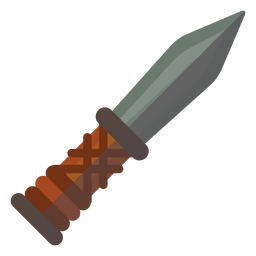
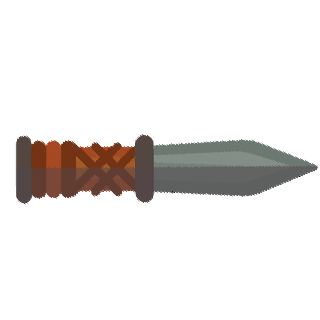
Added Zombie Enemy
Zombie moves faster than obstacles toward player. Can be killed by
ranged and melee attack, and damages player on contact if player is not
using melee attack. Fixed rotation of knife png file.

diff --git a/app/src/main/java/com/elevationstudios/gladerunner/GameScreen.java b/app/src/main/java/com/elevationstudios/gladerunner/GameScreen.java
@@ -59,6 +59,7 @@ public class GameScreen extends Screen {
     private float ninjaScale = 0.3f;
 
     private Obstacle[] obstacle;
+    private Enemy[] zombies;
     private float timer;
     private Random r;
 
@@ -94,6 +95,7 @@ public class GameScreen extends Screen {
         returnButtonYPos = playButtonYPos + 10 + playButton.getHeight();
 
         obstacle = new Obstacle[5];
+        zombies = new Enemy[5];
         r = new Random();
 
         hpPickup = new HealthPickup[5];
@@ -166,7 +168,7 @@ public class GameScreen extends Screen {
                 if(knife == null) {
                     Log.d("Knife", "Spawned knife");
                     knife = new Knife(this);
-                    knife.yLocation = ninjaYPos;
+                    knife.yLocation = ninjaYPos - game.getGraphics().getHeight() / 20;
                     if (ninja.getState() == Ninja.State.Jump) {
                         knife.isUp = true;
                     } else{
@@ -208,7 +210,7 @@ public class GameScreen extends Screen {
 
         //g.drawText("TestString", g.getWidth()/2-10, g.getHeight()/2, 20.0f);
         for (int i = 0; i < obstacle.length; i++)
-            CheckCollision();
+            CheckCollision(deltaTime);
 
         for (int i = 0; i < hpPickup.length; i++)
             CheckHealthCol();
@@ -287,6 +289,7 @@ public class GameScreen extends Screen {
 
     public void DrawEntities(Graphics g) {
         DrawNinja(g);
+        DrawZombies(g);
         DrawObstacles(g);
         DrawKnife(g);
         DrawHealthPickup(g);
@@ -319,7 +322,24 @@ public class GameScreen extends Screen {
                 ninjaYPos - (int) (ninja.getCurrentSprite().getHeight() * ninjaScale / 2),
                 ninjaScale);
         if (!isPaused)
+        {
             ninja.addFrame();
+        }
+
+    }
+    public void DrawZombies(Graphics g) {
+        for (int i = 0; i < zombies.length; i++)
+        {
+            if (zombies[i] != null)
+            {
+                g.drawPixmapScaled(zombies[i].getCurrentSprite(),
+                        zombies[i].xLocation - (int) (zombies[i].getCurrentSprite().getWidth() * ninjaScale / 2),
+                        zombies[i].yLocation - (int) (zombies[i].getCurrentSprite().getHeight() * ninjaScale / 2),
+                        ninjaScale);
+                if (!isPaused)
+                    zombies[i].addFrame();
+            }
+        }
     }
 
     public void DrawObstacles(Graphics g) {
@@ -372,17 +392,34 @@ public class GameScreen extends Screen {
             if (obstacle[i] != null)
                 obstacle[i].xLocation -= g.getWidth() * 2 / 3 * deltaTime;
         }
+        for (int i = 0; i < zombies.length; i++) {
+            if (zombies[i] != null)
+                zombies[i].xLocation -= g.getWidth() * 5 / 6 * deltaTime;
+        }
 
         if (timer >= 1 ) {
             timer = 0;
             points += 1;
-            for (int i = 0; i < obstacle.length; i++) {
-                if (obstacle[i] == null) {
-                    obstacle[i] = new Obstacle(g, r.nextBoolean());
-                    break;
+            if (r.nextFloat() > 0.5)
+            {
+                for (int i = 0; i < obstacle.length; i++) {
+                    if (obstacle[i] == null) {
+                        obstacle[i] = new Obstacle(g, r.nextBoolean());
+                        Log.d("GameScreen", "Spawned new obstacle");
+                        break;
+                    }
                 }
             }
-            Log.d("GameScreen", "Spawned new box");
+            else
+            {
+                for (int i = 0; i < zombies.length; i++) {
+                    if (zombies[i] == null) {
+                        zombies[i] = new Enemy(g);
+                        Log.d("GameScreen", "Spawned new zombie");
+                        break;
+                    }
+                }
+            }
         }
     }
 
@@ -410,8 +447,9 @@ public class GameScreen extends Screen {
 
     }
 
-    public void CheckCollision() {
-        for (int i = 0; i < obstacle.length; i++) {
+    public void CheckCollision(float deltaTime) {
+        for (int i = 0; i < obstacle.length; i++)
+        {
             //Check if obstacle exists
             if (obstacle[i] != null) {
                 //Check if off screen
@@ -433,21 +471,68 @@ public class GameScreen extends Screen {
                     }
                     break;
                 }
-                if(knife!=null) {
-                    if ((obstacle[i].xLocation < (knife.xLocation + knife.objectPix.getWidth() * 0.25f)) &&
-                            (obstacle[i].xLocation > (knife.xLocation)) &&
-                            (knife.isUp == obstacle[i].isUp)) {
+
+            }
+
+            //Against else
+        }
+        for (int i = 0; i < zombies.length; i++)
+        {
+            if (zombies[i] != null)
+            {
+                if (ninja != null)
+                {
+                    if (zombies[i].xLocation <= ninjaXPos + ninja.getCurrentSprite().getWidth() * ninjaScale + game.getGraphics().getWidth() * 5 * deltaTime &&
+                            zombies[i].getAction() == Enemy.Action.Idle)
+                    {
+                        zombies[i].setAction(Enemy.Action.Attack);
+                    }
+                    if (zombies[i].xLocation <= (ninjaXPos + ninja.getCurrentSprite().getWidth() * ninjaScale / 4) &&
+                            zombies[i].getAction() == Enemy.Action.Attack)
+                    {
+                        if (ninja.ninjaAction == Ninja.Action.MeleeAttack)
+                        {
+                            zombies[i].takeDamage(50);
+                            moneyEarned += 100;
+                            zombies[i].setAction(Enemy.Action.Dead);
+                            break;
+                        }
+                        else
+                        {
+                            ninja.takeDamage(40);
+                            zombies[i] = null;
+                            break;
+                        }
+                    }
+                }
+
+                if (knife != null) {
+                    if ((zombies[i].xLocation < knife.xLocation + knife.objectPix.getWidth() * 0.25f) &&
+                            (zombies[i].xLocation > (knife.xLocation)) &&
+                            knife.yLocation >= (zombies[i].yLocation - zombies[i].getCurrentSprite().getHeight() * ninjaScale / 2))
+                    {
                         Log.d("GameScreen.java", "Knife hit");
-                        obstacle[i] = null;
+                        zombies[i].takeDamage(50);
+                        if (zombies[i].isAlive() == false)
+                        {
+                            zombies[i].setAction(Enemy.Action.Dead);
+                        }
                         knife = null;
-                        moneyEarned += 100;
                         Log.d("GameScreen.java", "Knife deleted");
                         break;
                     }
                 }
+                if (zombies[i].getAction() == Enemy.Action.Dead)
+                {
+                    if (zombies[i].frame > 11)
+                    {
+                        zombies[i] = null;
+                        moneyEarned += 100;
+                    }
+                }
             }
 
-            //Against else
+
         }
     }
 
@@ -472,8 +557,6 @@ public class GameScreen extends Screen {
                     }
                 }
             }
-
-            //Against else
         }
     }
 }

diff --git a/app/src/main/java/com/elevationstudios/gladerunner/LoadingScreen.java b/app/src/main/java/com/elevationstudios/gladerunner/LoadingScreen.java
@@ -22,6 +22,8 @@ public class LoadingScreen extends Screen {
         //Assets.ninja = g.newPixmap("ninja1.png", PixmapFormat.ARGB4444);
         LoadNinjaAssets(g, Assets.ninjaSprite);
 
+        LoadZombieAssets(g, Assets.zombieSprite);
+
 
         Settings.load(game.getFileIO());
         game.setScreen(new MainMenuScreen(game));
@@ -72,7 +74,6 @@ public class LoadingScreen extends Screen {
         sprite[2][7] = g.newPixmap("NinjaAnim/jump_7.png", Graphics.PixmapFormat.RGB565);
         sprite[2][8] = g.newPixmap("NinjaAnim/jump_8.png", Graphics.PixmapFormat.RGB565);
         sprite[2][9] = g.newPixmap("NinjaAnim/jump_9.png", Graphics.PixmapFormat.RGB565);
-        sprite[2][0] = g.newPixmap("NinjaAnim/jump_0.png", Graphics.PixmapFormat.RGB565);
 
         sprite[3][0] = g.newPixmap("NinjaAnim/slide_0.png", Graphics.PixmapFormat.RGB565);
         sprite[3][1] = g.newPixmap("NinjaAnim/slide_1.png", Graphics.PixmapFormat.RGB565);
@@ -128,6 +129,41 @@ public class LoadingScreen extends Screen {
         sprite[7][7] = g.newPixmap("NinjaAnim/jump_throw_7.png", Graphics.PixmapFormat.RGB565);
         sprite[7][8] = g.newPixmap("NinjaAnim/jump_throw_8.png", Graphics.PixmapFormat.RGB565);
         sprite[7][9] = g.newPixmap("NinjaAnim/jump_throw_9.png", Graphics.PixmapFormat.RGB565);
+    }
+
+    public void LoadZombieAssets(Graphics g, Pixmap sprite[][]) {
+        sprite[0][0] = g.newPixmap("ZombieAnim/run_0.png", Graphics.PixmapFormat.RGB565);
+        sprite[0][1] = g.newPixmap("ZombieAnim/run_1.png", Graphics.PixmapFormat.RGB565);
+        sprite[0][2] = g.newPixmap("ZombieAnim/run_2.png", Graphics.PixmapFormat.RGB565);
+        sprite[0][3] = g.newPixmap("ZombieAnim/run_3.png", Graphics.PixmapFormat.RGB565);
+        sprite[0][4] = g.newPixmap("ZombieAnim/run_4.png", Graphics.PixmapFormat.RGB565);
+        sprite[0][5] = g.newPixmap("ZombieAnim/run_5.png", Graphics.PixmapFormat.RGB565);
+        sprite[0][6] = g.newPixmap("ZombieAnim/run_6.png", Graphics.PixmapFormat.RGB565);
+        sprite[0][7] = g.newPixmap("ZombieAnim/run_7.png", Graphics.PixmapFormat.RGB565);
+        sprite[0][8] = g.newPixmap("ZombieAnim/run_8.png", Graphics.PixmapFormat.RGB565);
+        sprite[0][9] = g.newPixmap("ZombieAnim/run_9.png", Graphics.PixmapFormat.RGB565);
+
+        sprite[1][0] = g.newPixmap("ZombieAnim/attack_0.png", Graphics.PixmapFormat.RGB565);
+        sprite[1][1] = g.newPixmap("ZombieAnim/attack_1.png", Graphics.PixmapFormat.RGB565);
+        sprite[1][2] = g.newPixmap("ZombieAnim/attack_2.png", Graphics.PixmapFormat.RGB565);
+        sprite[1][3] = g.newPixmap("ZombieAnim/attack_3.png", Graphics.PixmapFormat.RGB565);
+        sprite[1][4] = g.newPixmap("ZombieAnim/attack_4.png", Graphics.PixmapFormat.RGB565);
+        sprite[1][5] = g.newPixmap("ZombieAnim/attack_5.png", Graphics.PixmapFormat.RGB565);
+        sprite[1][6] = g.newPixmap("ZombieAnim/attack_6.png", Graphics.PixmapFormat.RGB565);
+        sprite[1][7] = g.newPixmap("ZombieAnim/attack_7.png", Graphics.PixmapFormat.RGB565);
+
+        sprite[2][0] = g.newPixmap("ZombieAnim/dead_0.png", Graphics.PixmapFormat.RGB565);
+        sprite[2][1] = g.newPixmap("ZombieAnim/dead_1.png", Graphics.PixmapFormat.RGB565);
+        sprite[2][2] = g.newPixmap("ZombieAnim/dead_2.png", Graphics.PixmapFormat.RGB565);
+        sprite[2][3] = g.newPixmap("ZombieAnim/dead_3.png", Graphics.PixmapFormat.RGB565);
+        sprite[2][4] = g.newPixmap("ZombieAnim/dead_4.png", Graphics.PixmapFormat.RGB565);
+        sprite[2][5] = g.newPixmap("ZombieAnim/dead_5.png", Graphics.PixmapFormat.RGB565);
+        sprite[2][6] = g.newPixmap("ZombieAnim/dead_6.png", Graphics.PixmapFormat.RGB565);
+        sprite[2][7] = g.newPixmap("ZombieAnim/dead_7.png", Graphics.PixmapFormat.RGB565);
+        sprite[2][8] = g.newPixmap("ZombieAnim/dead_8.png", Graphics.PixmapFormat.RGB565);
+        sprite[2][9] = g.newPixmap("ZombieAnim/dead_9.png", Graphics.PixmapFormat.RGB565);
+        sprite[2][10] = g.newPixmap("ZombieAnim/dead_10.png", Graphics.PixmapFormat.RGB565);
+        sprite[2][11] = g.newPixmap("ZombieAnim/dead_11.png", Graphics.PixmapFormat.RGB565);
     }
 
 }

diff --git a/app/src/main/java/com/elevationstudios/gladerunner/Enemy.java b/app/src/main/java/com/elevationstudios/gladerunner/Enemy.java
@@ -1,0 +1,110 @@
+package com.elevationstudios.gladerunner;
+
+import com.elevationstudios.framework.Graphics;
+import com.elevationstudios.framework.Pixmap;
+
+/**
+ * Created by nickk on 2017-12-07.
+ */
+
+public class Enemy {
+
+    protected enum Action{Idle, Attack, Dead}
+    protected Action zombieAction;
+
+    protected int health;
+    protected boolean alive;
+    protected int maxHealth;
+
+    public int xLocation;
+    public int yLocation;
+
+    public int frame;
+
+    public Enemy (Graphics g)
+    {
+        setAction(Action.Idle);
+        maxHealth = 50;
+        setHealth(maxHealth);
+        xLocation = g.getWidth();
+        yLocation = (int) (g.getHeight() * 0.78);
+
+
+    }
+
+    public Action getAction() {
+        return zombieAction;
+    }
+
+    public void setAction(Action action){
+        zombieAction = action;
+        UpdateZombieAnimation();
+    }
+
+    public Pixmap getCurrentSprite()
+    {
+
+        //IF NOT ATTACKING
+        if(zombieAction==Action.Idle)
+        {
+            if (frame > 9)
+                frame = 0;
+            return (Assets.zombieSprite[0][frame]);
+        }
+        else if (zombieAction==Action.Attack)
+        {
+            if (frame > 7)
+                frame = 0;
+            return (Assets.zombieSprite[1][frame]);
+        }
+        else
+        {
+            if (frame > 12)
+                frame = 0;
+            return (Assets.zombieSprite[2][frame]);
+        }
+    }
+    public void addFrame()
+    {
+        frame++;
+    }
+
+    public void UpdateZombieAnimation()
+    {
+        frame = 0;
+    }
+
+    public Action getState() {
+        return zombieAction;
+    }
+
+    public void takeDamage(int num){
+        setHealth(health-num);
+    }
+
+    public int getHealth(){
+        return health;
+    }
+
+    public void setHealth(int num){
+        health = num;
+        CheckHealth();
+    }
+
+    public void CheckHealth(){
+        if (health <= 0){
+            setIsAlive(false);
+        } else if(health > maxHealth) {
+            health = maxHealth;
+            setIsAlive(true);
+        } else {
+            setIsAlive(true);
+        }
+    }
+
+    public void setIsAlive(boolean b){
+        alive = b;
+    }
+    public boolean isAlive() { return alive;}
+
+}

diff --git a/app/src/main/java/com/elevationstudios/gladerunner/Assets.java b/app/src/main/java/com/elevationstudios/gladerunner/Assets.java
@@ -15,4 +15,7 @@ public class Assets {
     public static Pixmap ninjaSprite[][] = new Pixmap[8][10];
     //0-3 = state, 4-5 = groundattacks, 6-7 = aerialattacks
 
+    public static Pixmap zombieSprite[][] = new Pixmap[3][12];
+    //0 = idle, 1 = attack, 2 = dead
+
 }

diff --git a/app/src/main/java/com/elevationstudios/gladerunner/Obstacle.java b/app/src/main/java/com/elevationstudios/gladerunner/Obstacle.java
@@ -1,8 +1,5 @@
 package com.elevationstudios.gladerunner;
 
-import android.graphics.Color;
-import android.util.Log;
-
 import com.elevationstudios.framework.Graphics;
 import com.elevationstudios.framework.Pixmap;
 
